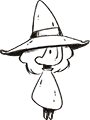
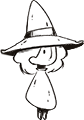
Added little floating animation to the player/ghosts

Changed region(s): [[0.0, 0.0, 1.0, 1.0], [0.5476, 0.825, 0.619, 0.85]]

diff --git a/js/test.js b/js/test.js
@@ -139,6 +139,18 @@ function drawName (obj, string1) {
     if (obj.textFrameIndex ===  floatValueArray.length) {obj.textFrameIndex = 0}
 }
 
+function drawFloatAnim(obj) {
+    let floatValueArray = [-4, -3, -2, -2, -1, -1, -1, 0, 0, 0, -1, -1, -1, -2, -2, -2, -3, -3, -4]
+    let floatValue = floatValueArray[obj.walkFrameIndex]
+    if (obj.xdir > 0) {
+            ctx.drawImage(obj.sprite, obj.x + obj.hitboxX, obj.y + obj.hitboxY + floatValue)
+        } else {
+            ctx.drawImage(obj.spriteFlipped, obj.x + obj.hitboxX, obj.y + obj.hitboxY + floatValue)
+        }
+    obj.walkFrameIndex++
+    if (obj.walkFrameIndex ===  floatValueArray.length) {obj.walkFrameIndex = 0}
+}
+
 function drawHealth() {
     for (let i = hero.maxhealth; i > 0; i--) {
         ctx.fillStyle = 'white'
@@ -167,11 +179,11 @@ function drawMana() {
     ctx.fill()
 }
 
-function drawSprite (obj) {
+function drawSprite (obj, hitboxX, hitboxY) {
     if (obj.xdir > 0) {
-            ctx.drawImage(obj.sprite, obj.x, obj.y)
+            ctx.drawImage(obj.sprite, obj.x + hitboxX, obj.y + hitboxY)
         } else {
-            ctx.drawImage(obj.spriteFlipped, obj.x, obj.y)
+            ctx.drawImage(obj.spriteFlipped, obj.x + hitboxX, obj.y + hitboxY)
         }
 }
 
@@ -208,6 +220,8 @@ function Constructor(x, y, color, width, height) {
 function HeroConstructor(x, y) {
     this.x = x
     this.y = y
+    this.hitboxX = -20
+    this.hitboxY = -20
     this.sprite = document.getElementById("madge")
     this.spriteFlipped = document.getElementById("madgeFlipped")
     this.color = 'hotpink'
@@ -224,8 +238,9 @@ function HeroConstructor(x, y) {
     this.ydir = 0
     this.frameIndex = 0
     this.textFrameIndex = 0
+    this.walkFrameIndex = randomRange(0, 5)
     this.render = function() {
-        drawSprite(this)
+        drawFloatAnim(this)
     }
 }
 
@@ -233,6 +248,8 @@ function HeroConstructor(x, y) {
 function GhostConstructor(x, y) {
     this.x = x
     this.y = y
+    this.hitboxX = 0
+    this.hitboxY = 0
     this.faceNum = randomRange(1, 5)
     this.sprite = document.getElementById('ghost' + this.faceNum)
     this.spriteFlipped = document.getElementById('ghost' + this.faceNum + 'Flipped')
@@ -246,10 +263,11 @@ function GhostConstructor(x, y) {
     this.speed = 1
     this.frameIndex = 0
     this.textFrameIndex = 0
+    this.walkFrameIndex = randomRange(0, 5)
     this.spellWords = [selectRandom(spellWords), selectRandom(spellWords), selectRandom(spellWords)]
     this.spellWordIndex = 0
     this.render = function() {
-        drawSprite(this)
+        drawFloatAnim(this)
     }
     this.activate = function() {
         if(detectNear(this, 400)) {
@@ -283,6 +301,8 @@ function GhostConstructor(x, y) {
 function ExclaimerConstructor(x, y) {
     this.x = x
     this.y = y
+    this.hitboxX = 0
+    this.hitboxY = 0
     this.sprite = document.getElementById("exclaimer")
     this.color = 'black'
     this.width = 70
@@ -328,6 +348,8 @@ function ExclaimerConstructor(x, y) {
 function EmDashConstructor(x, y) {
     this.x = x
     this.y = y
+    this.hitboxX = 0
+    this.hitboxY = 0
     this.color = 'black'
     this.width = 30
     this.height = 30
@@ -364,6 +386,8 @@ function EmDashConstructor(x, y) {
 function DoorConstructor(x, y, leadsTo) {
     this.x = x
     this.y = y
+    this.hitboxX = 0
+    this.hitboxY = 0
     this.color = 'red'
     this.width = 60
     this.height = 60
@@ -405,6 +429,8 @@ function DoorConstructor(x, y, leadsTo) {
 function ChestConstructor(x, y, item) {
     this.x = x
     this.y = y
+    this.hitboxX = 0
+    this.hitboxY = 0
     this.color = 'yellow'
     this.width = 60
     this.height = 60
@@ -773,9 +799,6 @@ let gameLoop = () => {
     // Increment frame
     frame++
     
-    //Write player input text above player
-    ctx.fillText(playerText.join(''), hero.x, hero.y - 5)
-    
     //Check if shield is up
     if (hero.shielded && hero.mana > 0) {
         ctx.fillStyle = 'rgba(0, 255, 255, 1)'
@@ -802,6 +825,9 @@ let gameLoop = () => {
     
     // Render hero
     hero.render()
+    
+    //Write player input text above player
+    ctx.fillText(playerText.join(''), hero.x, hero.y - 5)
 }
 
 function gameBegin() {
